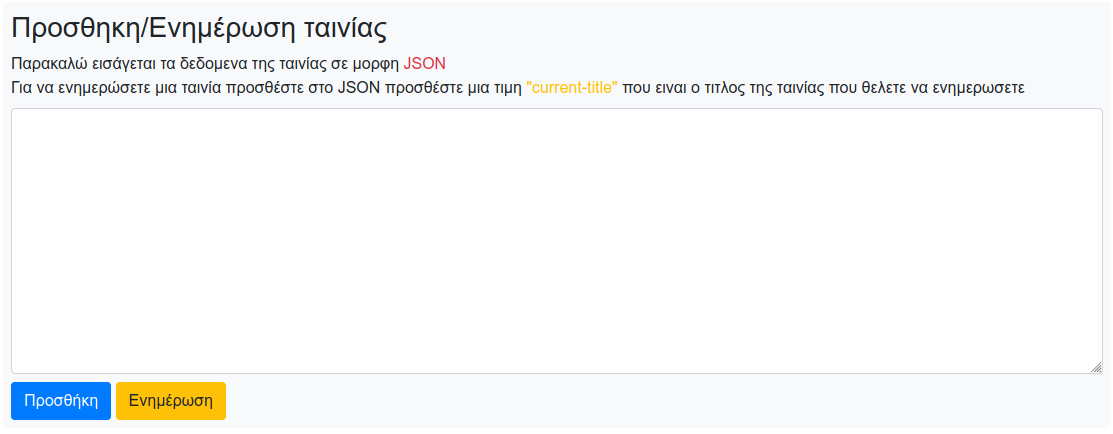
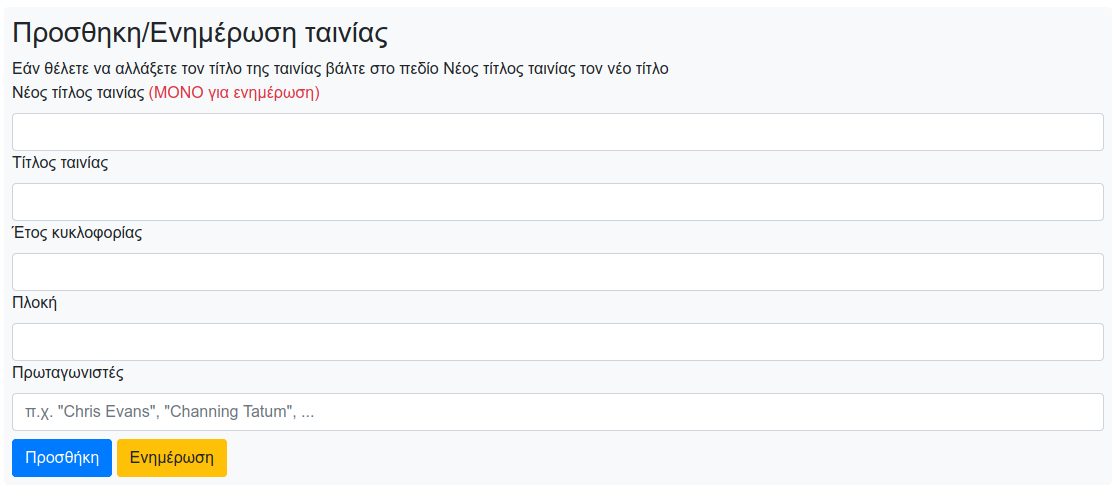
Changed movie P and U input method

diff --git a/flask/templates/dashboard.html b/flask/templates/dashboard.html
@@ -20,7 +20,7 @@
     </button>
     <div class="collapse navbar-collapse" id="navbarNavAltMarkup">
       <div class="navbar-nav">
-        <a class="nav-item nav-link active" href="/">Home</a>
+        <a class="nav-item nav-link" href="/">Home</a>
         <a class="nav-item nav-link active" href="/admin">Admin Dashboard <span class="sr-only">(current)</span></a>
         <a class="btn btn-danger" id="btnLogout" href="api/logout">Logout</a>
         <button class="btn btn-secondary" id="btnDelte" href="api/user/delete">Delete Account</button>
@@ -34,8 +34,17 @@
               <div class="bg-light rounded p-2">
                     <h3>Προσθηκη/Ενημέρωση ταινίας</h3>
                     <!--TODO Change to a form with all the fields-->
-                    <label for="movie">Παρακαλώ εισάγεται τα δεδομενα της ταινίας σε μορφη <span class="text-danger">JSON</span></br>Για να ενημερώσετε μια ταινία προσθέστε στο JSON προσθέστε μια τιμη <span class="text-warning">"current-title"</span> που ειναι ο τιτλος της ταινίας που θελετε να ενημερωσετε</label>
-                    <textarea class="form-control" name="movie" id="movie" rows="10"></textarea>
+                    <span class="mb-2">Εάν θέλετε να αλλάξετε τον τίτλο της ταινίας βάλτε στο πεδίο Νέος τίτλος ταινίας τον νέο τίτλο</span></br>
+                    <label for="title">Νέος τίτλος ταινίας <span class="text-danger">(ΜΟΝΟ για ενημέρωση)</span></label>
+                    <input class="form-control" type="text" id="mοtitle" name="mοtitle" value="">
+                    <label for="title">Τίτλος ταινίας</label>
+                    <input class="form-control" type="text" id="mtitle" name="mtitle" value="">
+                    <label for="title">Έτος κυκλοφορίας</label>
+                    <input class="form-control" type="text" id="myear" name="myear" value="">
+                    <label for="title">Πλοκή</label>
+                    <input class="form-control" type="text" id="mdesc" name="mdesc" value="">
+                    <label for="title">Πρωταγωνιστές</label>
+                    <input class="form-control" type="text" id="mactors" name="mactors" value="" placeholder='π.χ. "Chris Evans", "Channing Tatum", ...'>
                     <button class="btn btn-primary mt-2" id="btnMovieAdd">Προσθήκη</button>
                     <button class="btn btn-warning mt-2" id="btnMovieUpdate">Ενημέρωση</button>
               </div>
@@ -81,13 +90,48 @@
 $(function(){
     //Add movie
     $("#btnMovieAdd").click(function(){
-        var data = $('#movie').val()
-        console.log(data);
-        //var movie = JSON.parse(data);
-        //console.log(movie);
+        var data = '{';
+        var title = $('#mtitle').val();
+        var year = $('#myear').val();
+        var desc = $('#mdesc').val();
+        var actors = $('#mactors').val();
+        var first = true;
+        if(title != ''){
+            first = false;
+            data += '"title": "'+title+'"';
+        }
+        if(year != ''){
+            if(!first){
+                data +=',';
+            }
+            else{
+                first = false;
+            }
+            data += '"year": "'+year+'"';
+        }
+        if(desc != ''){
+            if(!first){
+                data +=',';
+            }
+            else{
+                first = false;
+            }
+            data += '"description": "'+desc+'"';
+        }
+        if(actors != ''){
+            if(!first){
+                data +=',';
+            }
+            else{
+                first = false;
+            }
+            data += '"actors": ['+actors+']';
+        }
+        data += '}';
+        var mydata = JSON.parse(data);
         $.ajax({
             url: "/api/admin/add_movie",
-            data: {data: data},
+            data: {data: JSON.stringify(mydata)},
             type: "POST",
             dataType: "json",       
             success:function(data, xhr){
@@ -101,11 +145,30 @@ $(function(){
     });
     //Update movie
     $("#btnMovieUpdate").click(function(){
-        var data = $('#movie').val()
+        var data = '{"current-title": "'+$('#mtitle').val()+'"';
+        var title = $('#mοtitle').val();
+        var year = $('#myear').val();
+        var desc = $('#mdesc').val();
+        var actors = $('#mactors').val();
+
+        if(title != ''){
+            data += ',"title": "'+title+'"';
+        }
+        if(year != ''){
+            data += ',"year": "'+year+'"';
+        }
+        if(desc != ''){
+            data += ',"description": "'+desc+'"';
+        }
+        if(actors != ''){
+            data += ',"actors": ['+actors+']';
+        }
+        data += '}';
         console.log(data);
+        var mydata = JSON.parse(data);
         $.ajax({
             url: "/api/admin/update_movie",
-            data: {data: data},
+            data: {data: JSON.stringify(mydata)},
             type: "UPDATE",
             dataType: "json",       
             success:function(data, xhr){

diff --git a/README.md b/README.md
@@ -74,27 +74,11 @@ git clone https://github.com/georgeVie/MovieFlix2020_E15017_Viennas_Georgios.git
     Κάνοντας είσοδο στο σύστημα αν ο χρήστης έχει δικαιώματα διαχείριση δηλαδή ανήκει στην κατηγορία διαχειριστών, τότε στο navigation bar θα εμφανιστεί η επιλογή **Admin Dashboard** κάνοντας κλικ στην επιλογή αυτή ο διαχειριστής μεταφέρεται στον πίνακα ελέγχου διαχειριστών. Από εκεί μπορεί να εκτελέσει όλες τις λειτουργίες στις οποίες έχουν πρόσβαση μόνο οι διαχειριστές
 
 * ### Εισαγωγή νέας ταινίας στο MovieFlix http://localhost:5000/admin
-    Στον πίνακα ελέγχου υπάρχει μια φορά με το όνομα **Προσθήκη/Ενημέρωση ταινίας** . Εκεί ο διαχειριστής μπορεί να εισάγει τα στοιχεία της νέας ταινίας σε μορφή **JSON** και να κάνει κλικ στο κουμπί **Προσθήκη** για καταχωρηθεί η  ταινία στο σύστημα. Απαραίτητα για της εισαγωγή μιας νέας ταινίας είναι ο τίτλος της ταινίας (title) και τουλάχιστον ένας πρωταγωνιστής (actor). Αν δεν υπάρχουν εμφανίζεται σχετικό μήνυμα. Τα δεδομένα που θα εισαχθούν πρέπει να ακολουθούν την εξής μορφή:
-    ```json
-    {
-        "title": "MovieTitle",
-        "year": 0000,
-        "description": "Movie description",
-        "actors": ["Actor1", "Actor2", "Actor3"]
-    }
-    ```
+    Στον πίνακα ελέγχου υπάρχει μια φορά με το όνομα **Προσθήκη/Ενημέρωση ταινίας** . Εκεί ο διαχειριστής μπορεί να εισάγει τα στοιχεία της νέας ταινίας και να κάνει κλικ στο κουμπί **Προσθήκη** για να καταχωρηθεί η ταινία στο σύστημα. Απαραίτητα για της εισαγωγή μιας νέας ταινίας είναι ο τίτλος της ταινίας (title) και τουλάχιστον ένας πρωταγωνιστής (actor). Αν δεν υπάρχουν εμφανίζεται σχετικό μήνυμα.
 
 * ### Ενημέρωση υπάρχουσας ταινίας http://localhost:5000/admin
-    Στον πίνακα ελέγχου υπάρχει μια φορά με το όνομα **Προσθήκη/Ενημέρωση ταινίας** . Εκεί ο διαχειριστής μπορεί να εισάγει τα στοιχεία της ταινίας που θελει να ενημερώσει σε μορφή **JSON** και να κάνει κλικ στο κουμπί **Ενημέρωση** για ενημερώθει η  ταινία στο σύστημα. Απαραίτητα για την ενημέρωση της ταινίας είναι ο τίτλος της ταινίας που θέλουμε να ενημερωθεί (current-title). Τα δεδομένα που θα εισαχθούν πρέπει να ακολουθούν την εξής μορφή:
-    ```json
-    {
-        "current-title": "MovieTitle",
-        "title": "NewMovieTitle",
-        "year": 0000,
-        "description": "New Movie description",
-        "actors": ["Actor1", "Actor2", "Actor3"]
-    }
-    ```
+    Στον πίνακα ελέγχου υπάρχει μια φορά με το όνομα **Προσθήκη/Ενημέρωση ταινίας** . Εκεί ο διαχειριστής μπορεί να εισάγει τα στοιχεία της ταινίας που θελει να ενημερώσει και να κάνει κλικ στο κουμπί **Ενημέρωση** για ενημερώθει η  ταινία στο σύστημα. Απαραίτητο για την ενημέρωση της ταινίας είναι ο τίτλος της ταινίας που θέλουμε να ενημερωθεί (Τίτλος). Τα δεδομένα που θα εισαχθούν πρέπει να ακολουθούν την εξής μορφή:
+
 ![alt text](/img/P_U_Movie.png)
 
 * ### Διαγραφή ταινίας από το MovieFlix http://localhost:5000/admin
